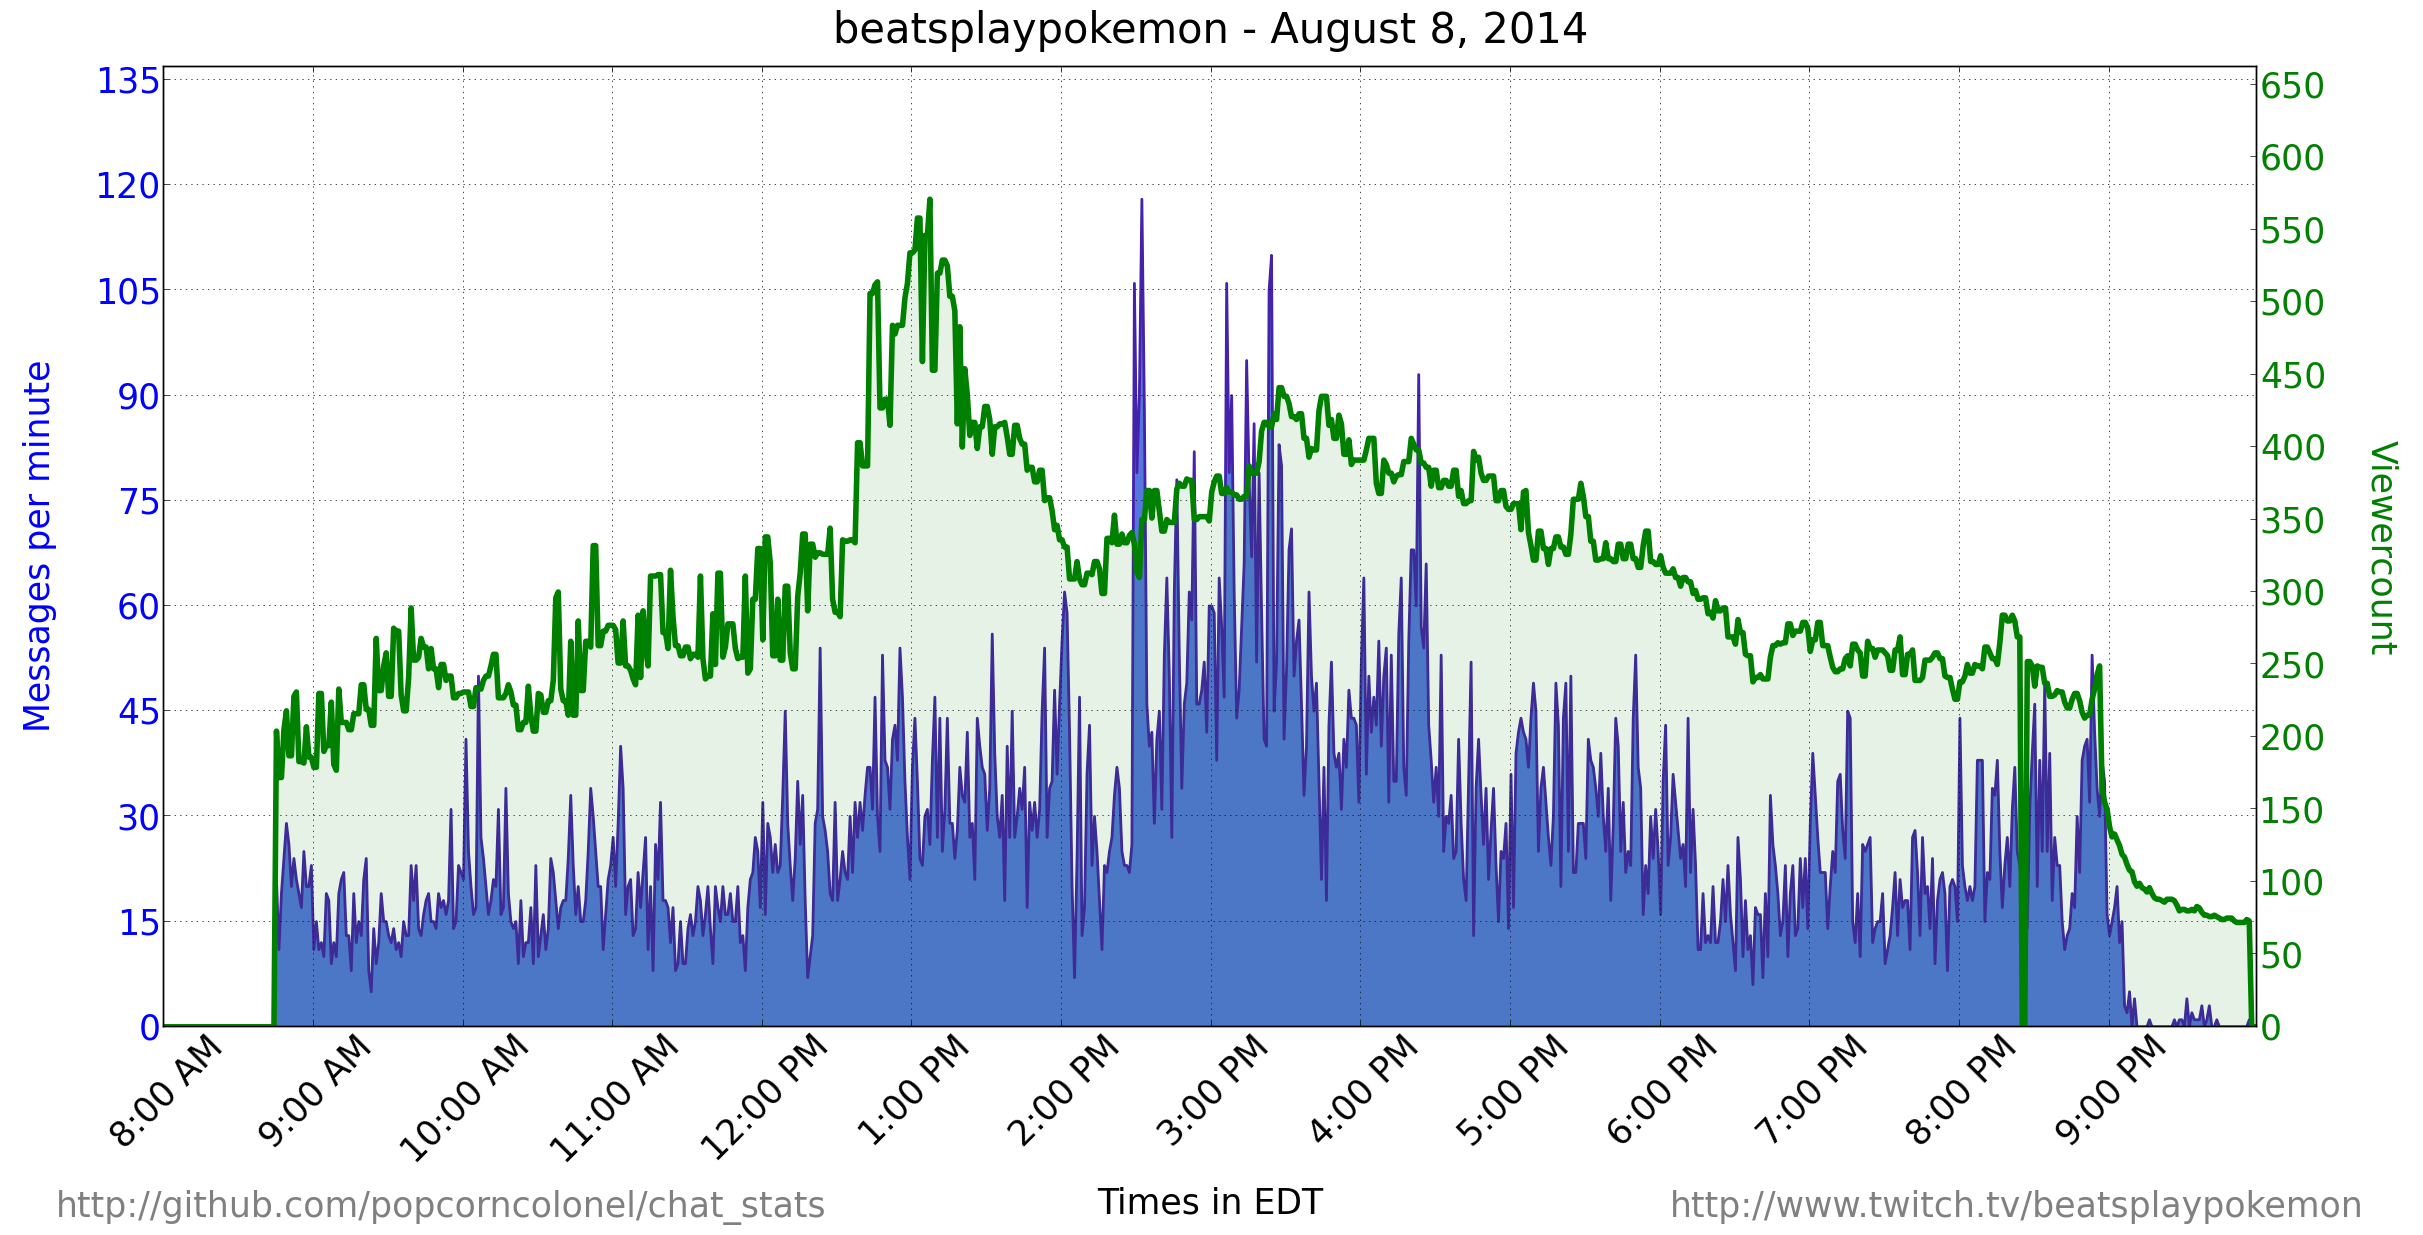
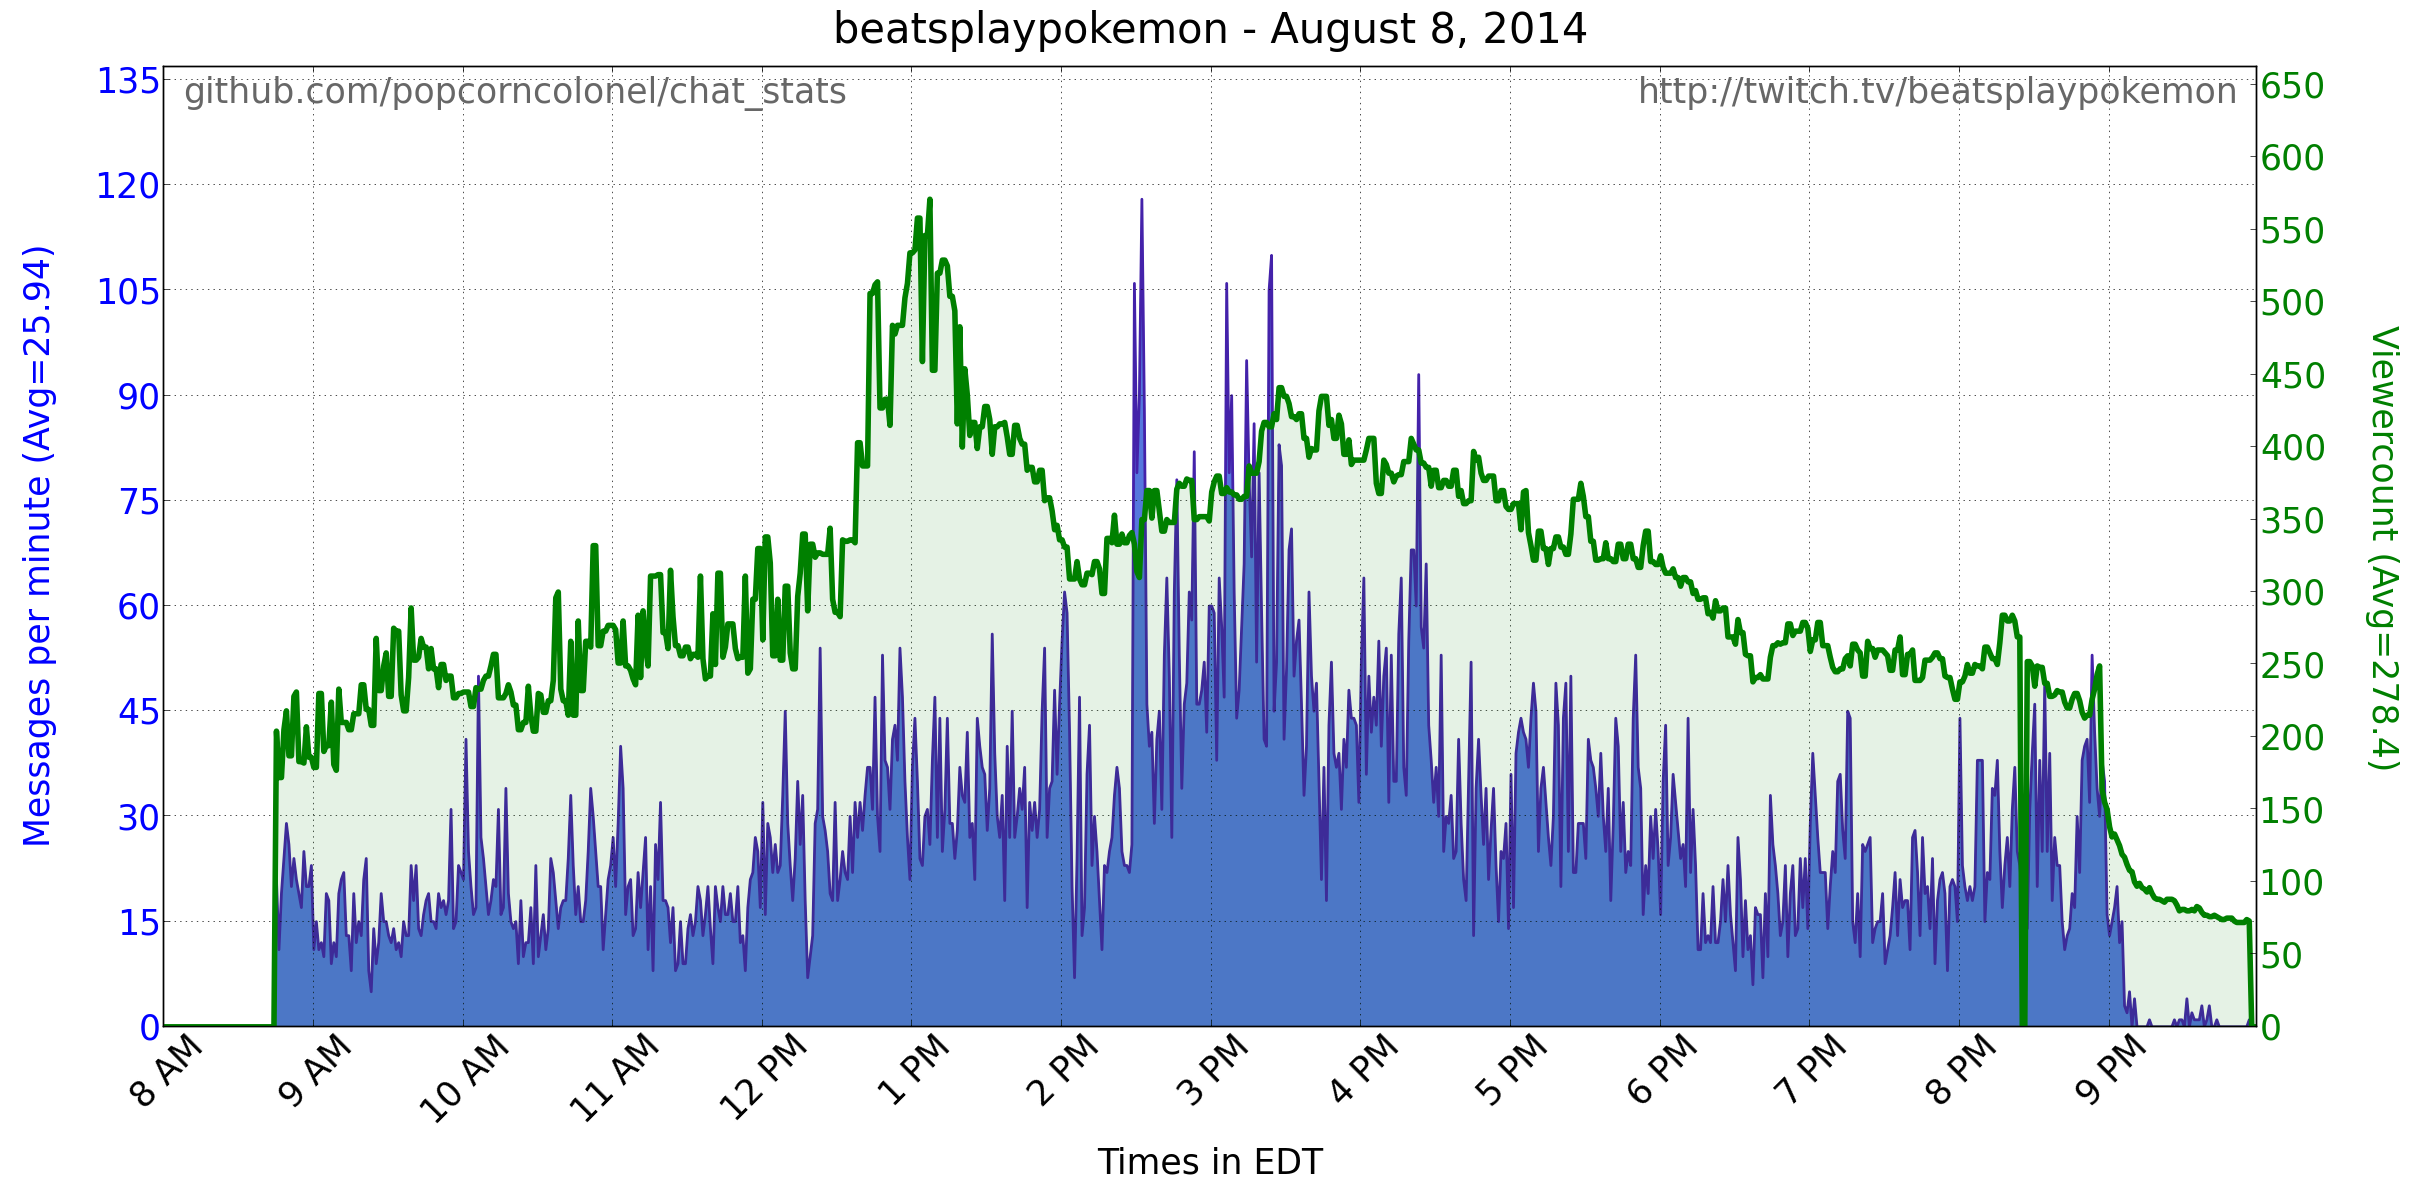
Updated snd added ome example to show the new average feature

diff --git a/make_plot.py b/make_plot.py
@@ -8,7 +8,7 @@ import urllib2
 import string
 try:
     from dateutil.tz import *
-    import matplotlib
+    from matplotlib import rc
     import matplotlib.pyplot as plt
     import numpy as np
     import matplotlib.patheffects as PathEffects
@@ -231,7 +231,7 @@ def make_plot(channel, time, drawLabels=True):
 
     ax.fill_between(x,0,y,color='#5577DD')
     font = {'size' : 25}
-    matplotlib.rc('font', **font)
+    rc('font', **font)
 
     ticklist = ax2.get_yticks()
     height_diff = ticklist[1] - ticklist[0]

diff --git a/chat_stats.py b/chat_stats.py
@@ -303,7 +303,7 @@ def endFunc():
 print
 print "===============================STARTING CHAT INPUT=============================="
 print "Type '!exit', '!quit', or '!q' to stop recording."
-start_new_thread(logEvent, ('Log an event: ',))
+start_new_thread(logEvent, ('Log an event (optional): ',))
 try:
     stopper = checkTime()
     listen(channel, nick, PASS, interpret, endFunc)

diff --git a/readme.md b/readme.md
@@ -1,11 +1,11 @@
 ###What is this?###
-This is a visualizer for Twitch chat. First, you set it to record the stream. When the stream is over (or you're done recording), the program automatically generates a graph of stream activity (chat rate and viewership) over time, then generates a few word clouds that help to visualize the chat experience. Examples of both can be found in the "examples" directory of this repository.
+This is a visualizer for Twitch chat. First, you set it to record the stream. When you're done recording, the program automatically generates a graph of stream activity (chat rate and viewership) over time, then generates a few word clouds that help to visualize the chat experience. Examples of both can be found in the "examples" directory of this repository.
 
 ###You can now download this program as a .exe!###
 [Download Link](http://www.mediafire.com/download/i6fv2d63a51ig1c/chat_stats.zip). Just unzip the files, double click on chat_stats.exe, and input the channel you want to record!
 
 ###USAGE###
-####To start recording####  
+####To start recording
 * "**python chat_stats.py [channel]**"
 
 ####To analyze data (optional - the images are still generated if you don't run this command):  
